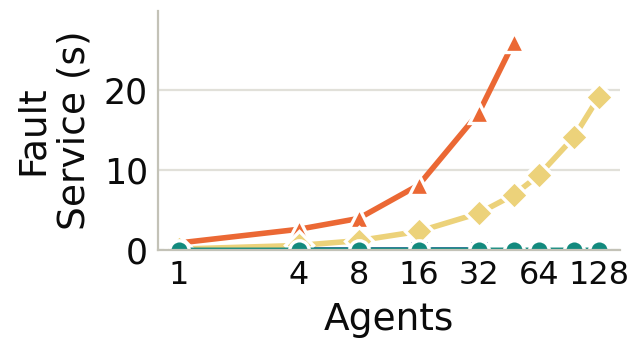
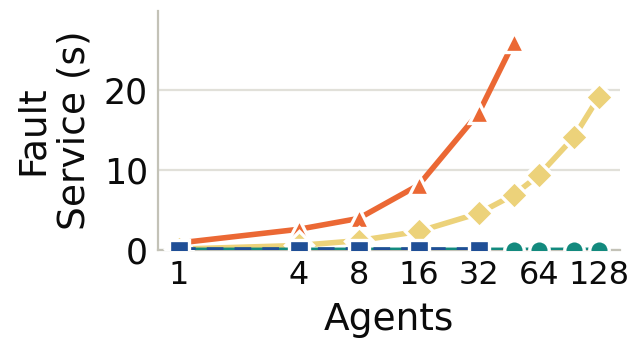
Figure 10: Copy drawn on top, dashed where it lies on the zero line of STATOR

Changed region(s): [[0.25, 0.6857, 0.7812, 0.7143]]

diff --git a/figures/make_paper_figures.py b/figures/make_paper_figures.py
@@ -1315,8 +1315,12 @@ def linux_scale():
             if not points:
                 continue
             top = max(top, max(value for _, value in points))
+            # Copy is drawn on top: its TTFT lies between those of STATOR and Read-Only Map, and it serves no fault,
+            # which puts it on the zero line of STATOR in the fault panel, where it is dashed (10-23)
+            on_zero = m == "copy" and all(value == 0 for _, value in points)
             ax.plot([p[0] for p in points], [p[1] for p in points], color=colour, marker=marker,
-                    markersize=7, linewidth=2, label=label, markeredgecolor="white", markeredgewidth=1.2)
+                    markersize=7, linewidth=2, label=label, markeredgecolor="white", markeredgewidth=1.2,
+                    zorder=4 if m == "copy" else 3, linestyle=(0, (3, 2)) if on_zero else "-")
         ax.set_xscale("log", base=2)
         ax.set_xticks(ticks, [str(n) for n in ticks])
         ax.minorticks_off()
